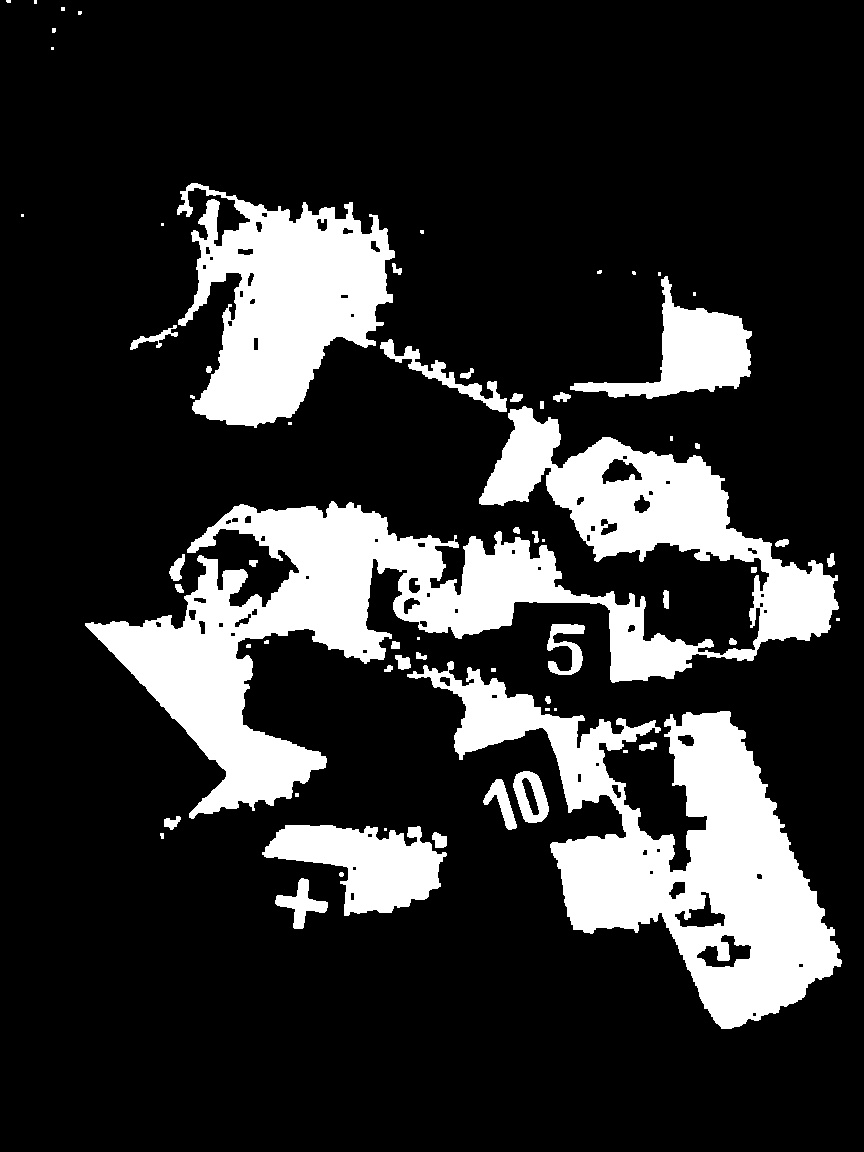
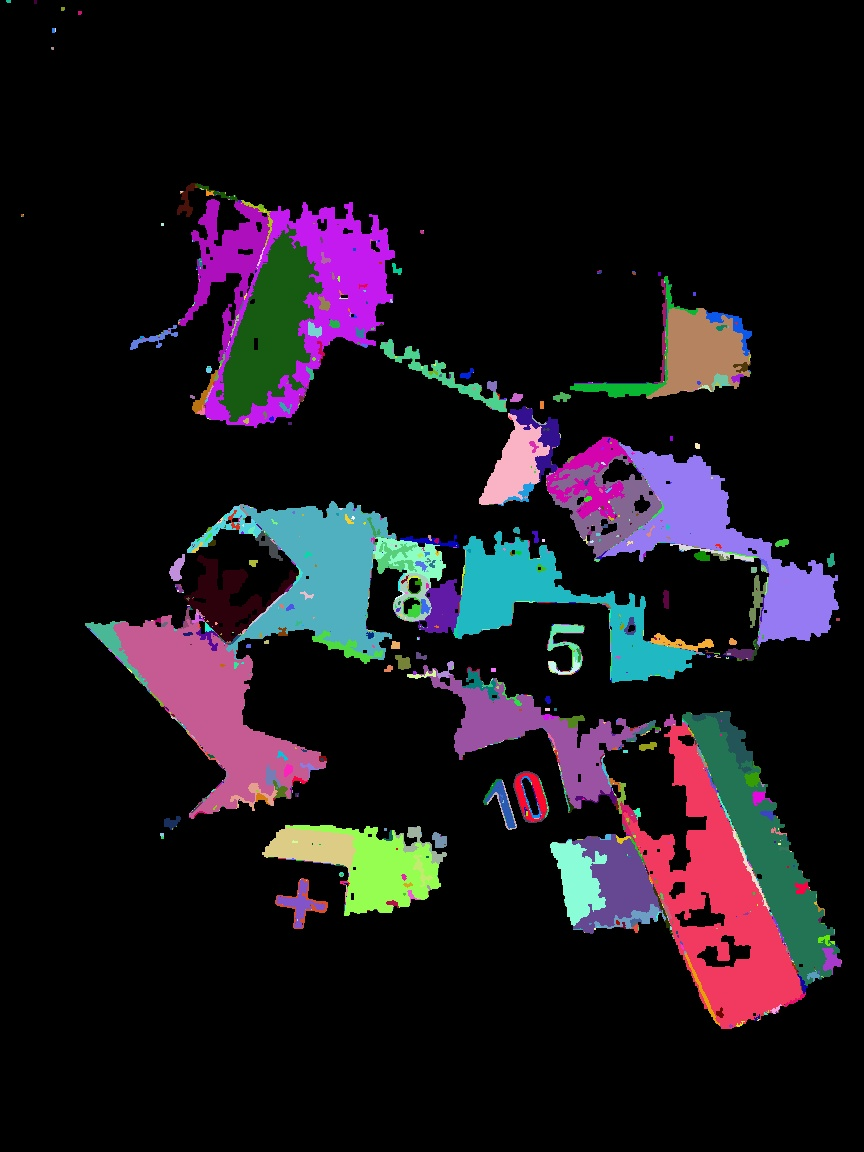
Pierwsza wersja floodFill

Changed region(s): [[0.0938, 0.1562, 0.9688, 0.9062], [0.6562, 0.2188, 0.875, 0.3438], [0.1562, 0.2812, 0.2188, 0.3125]]

diff --git a/BlocksDetector.cpp b/BlocksDetector.cpp
@@ -12,6 +12,8 @@
 #include <stack>
 
 
+
+
 void showImage(cv::Mat image, std::string title)
 {
     int cols = image.cols;
@@ -27,7 +29,7 @@ void showImage(cv::Mat image, std::string title)
 
 static cv::Vec3b randomColor()
 {
-    cv::RNG rng(12345);
+    static cv::RNG rng(12345);
     return cv::Vec3b((uchar)rng.uniform(0, 255), (uchar)rng.uniform(0, 255), (uchar)rng.uniform(0, 255));
 }
 
@@ -59,7 +61,12 @@ cv::Mat threshold(cv::Mat source)
     return outImage;
 }
 
-void floodFill(cv::Mat_<cv::Vec3b>& image, cv::Mat_<uchar>& mask, cv::Vec3b color, cv::Point2i seed, int threshold, bool eightConnected = true)
+bool isInRange(int value, int low, int high)
+{
+    return low <= value && value <= high;
+}
+
+void floodFill(cv::Mat3b& destination, cv::Mat3b& sourceHLS, cv::Mat1b& mask, cv::Vec3b color, cv::Point2i seed, int lowThreshold = 30, int highThreshold = 10, bool eightConnected = false)
 {
     uchar done = 0;
     std::stack<cv::Point2i> stack = std::stack<cv::Point2i>();
@@ -73,15 +80,47 @@ void floodFill(cv::Mat_<cv::Vec3b>& image, cv::Mat_<uchar>& mask, cv::Vec3b colo
         stack.push(seed);
     }    
 
+
+    int channel = 2;
+    int value = sourceHLS(seed)[channel];
+    int low = value - lowThreshold;
+    int high = value + highThreshold;
+
     while (!stack.empty())
     {
         cv::Point2i currentPixel = stack.top();
         stack.pop();
 
-        image(currentPixel) = color;
+        destination(currentPixel) = color;
         mask(currentPixel) = done;
 
-        if (true)
+        int x = currentPixel.x;
+        int y = currentPixel.y;
+
+
+        cv::Point2i p = cv::Point2i(x, y - 1);
+        if (p.y >= 0 && mask(p) != done && isInRange(sourceHLS(p)[channel], low, high))
+        {
+            stack.push(p);
+        }
+        p = cv::Point2i(x, y + 1);
+        if (p.y < mask.rows && mask(p) != done && isInRange(sourceHLS(p)[channel], low, high))
+        {
+            stack.push(p);
+        }
+        p = cv::Point2i(x - 1, y);
+        if (p.x >= 0 && mask(p) != done && isInRange(sourceHLS(p)[channel], low, high))
+        {
+            stack.push(p);
+        }
+        p = cv::Point2i(x + 1, y);
+        if (p.x < mask.cols && mask(p) != done && isInRange(sourceHLS(p)[channel], low, high))
+        {
+            stack.push(p);
+        }
+
+
+        if (eightConnected)
         {
             
         }
@@ -99,22 +138,55 @@ int main(int, char* [])
 
     std::vector<cv::Mat> images = FileSystemHelper::loadImages(Args::dataDir);
 
-    for (int i = 0; i < images.size(); i++)
+    for (int i = 0; i < 1/*images.size()*/; i++)
     {
-        cv::Mat image = images[i];
+        cv::Mat3b image = images[i];
 
         image = Filter::rankFilter(image, 3, 5);
-        showImage(image, "rank" + std::to_string(i));
+        //showImage(image, "rank" + std::to_string(i));
+
+
+
+
+
+
+
+
+
+
+
+
+
         cv::imwrite("rank" + std::to_string(i) + ".jpg", image);
 
-        image = threshold(image);
 
-        cv::dilate(image, image, cv::Mat());
-        cv::dilate(image, image, cv::Mat());
-        cv::erode(image, image, cv::Mat());
 
-        showImage(image, "out" + std::to_string(i));
-        cv::imwrite("out" + std::to_string(i) + ".jpg", image);
+
+
+
+
+
+        cv::Mat1b mask = threshold(image);
+
+        cv::dilate(mask, mask, cv::Mat());
+        cv::dilate(mask, mask, cv::Mat());
+        cv::erode(mask, mask, cv::Mat());
+
+        cv::Mat1b tmpMask = mask.clone();
+        cv::Mat3b destination = cv::Mat3b::zeros(image.rows, image.cols);
+        cv::cvtColor(image, image, cv::COLOR_BGR2HSV);
+        for (int x = 0; x < image.cols; x++)
+        {
+            for (int y = 0; y < image.rows; y++)
+            {
+                floodFill(destination, image, tmpMask, randomColor(), cv::Point2i(x, y));
+            }
+        }
+
+        //showImage(tmpMask, "tmpMask" + std::to_string(i));
+        showImage(mask, "mask" + std::to_string(i));
+        showImage(destination, "out" + std::to_string(i));
+        cv::imwrite("out" + std::to_string(i) + ".jpg", destination);
     }
     
 
